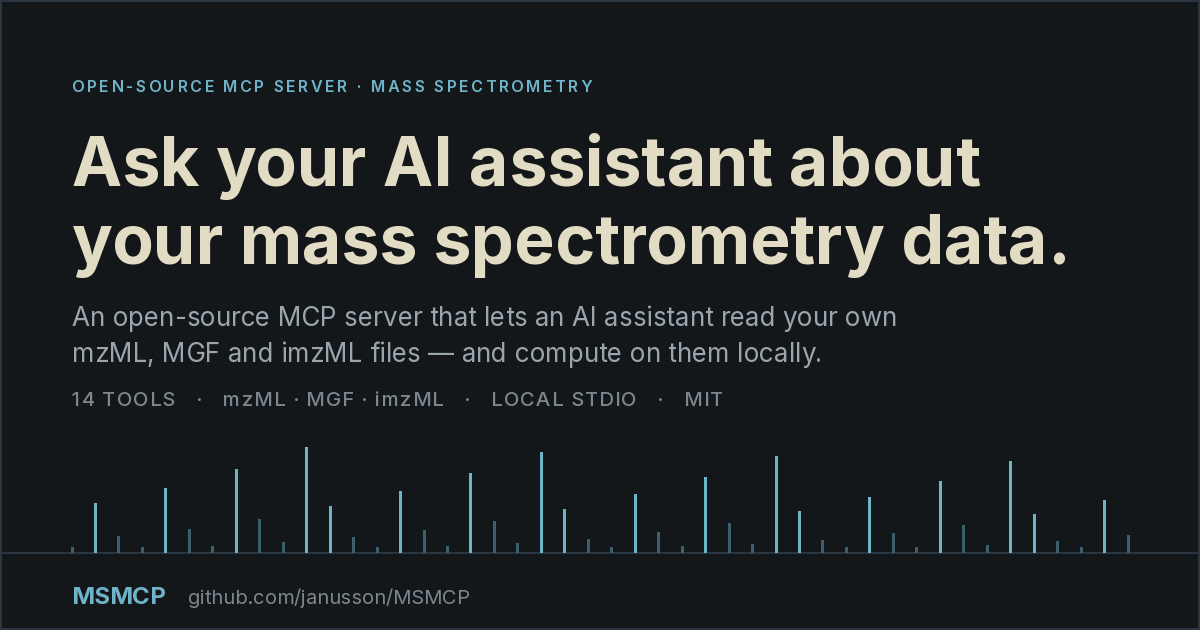
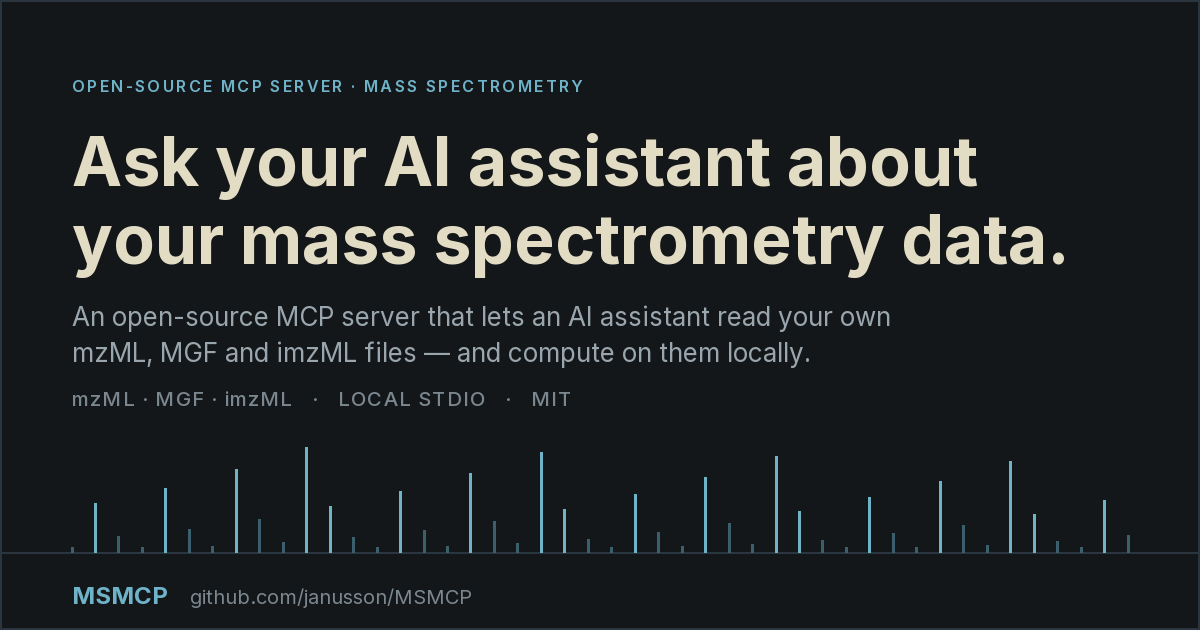
Remove brittle tool count from social preview
Regenerates public/og.png without a hardcoded tool count so the social preview cannot drift from the release tool surface.

diff --git a/scripts/make-og-card.py b/scripts/make-og-card.py
@@ -24,7 +24,7 @@ SUBLINE = [
     "An open-source MCP server that lets an AI assistant read your own",
     "mzML, MGF and imzML files — and compute on them locally.",
 ]
-CHIPLINE = "14 TOOLS   ·   mzML · MGF · imzML   ·   LOCAL STDIO   ·   MIT"
+CHIPLINE = "mzML · MGF · imzML   ·   LOCAL STDIO   ·   MIT"
 EYEBROW = "OPEN-SOURCE MCP SERVER · MASS SPECTROMETRY"
 FOOTER = "github.com/janusson/MSMCP"
 
